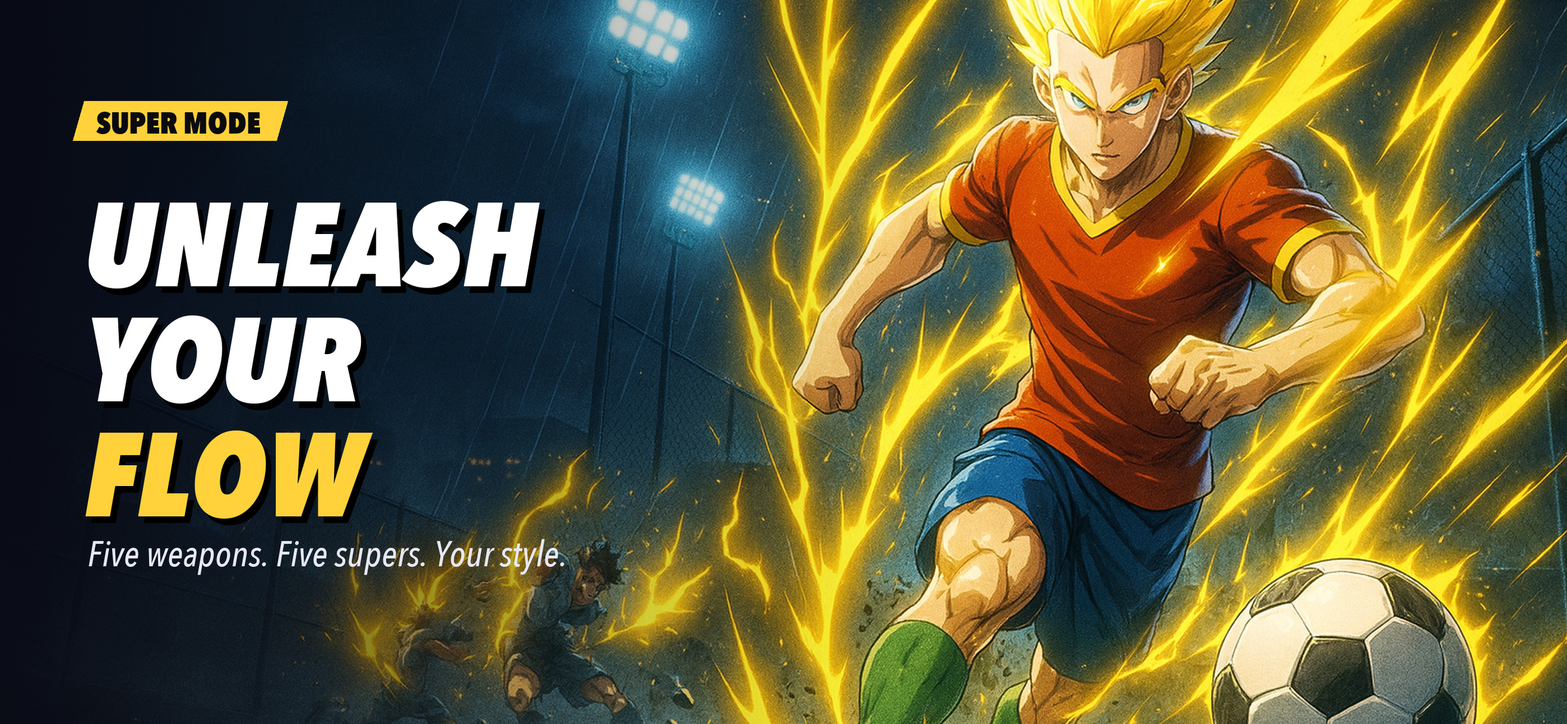
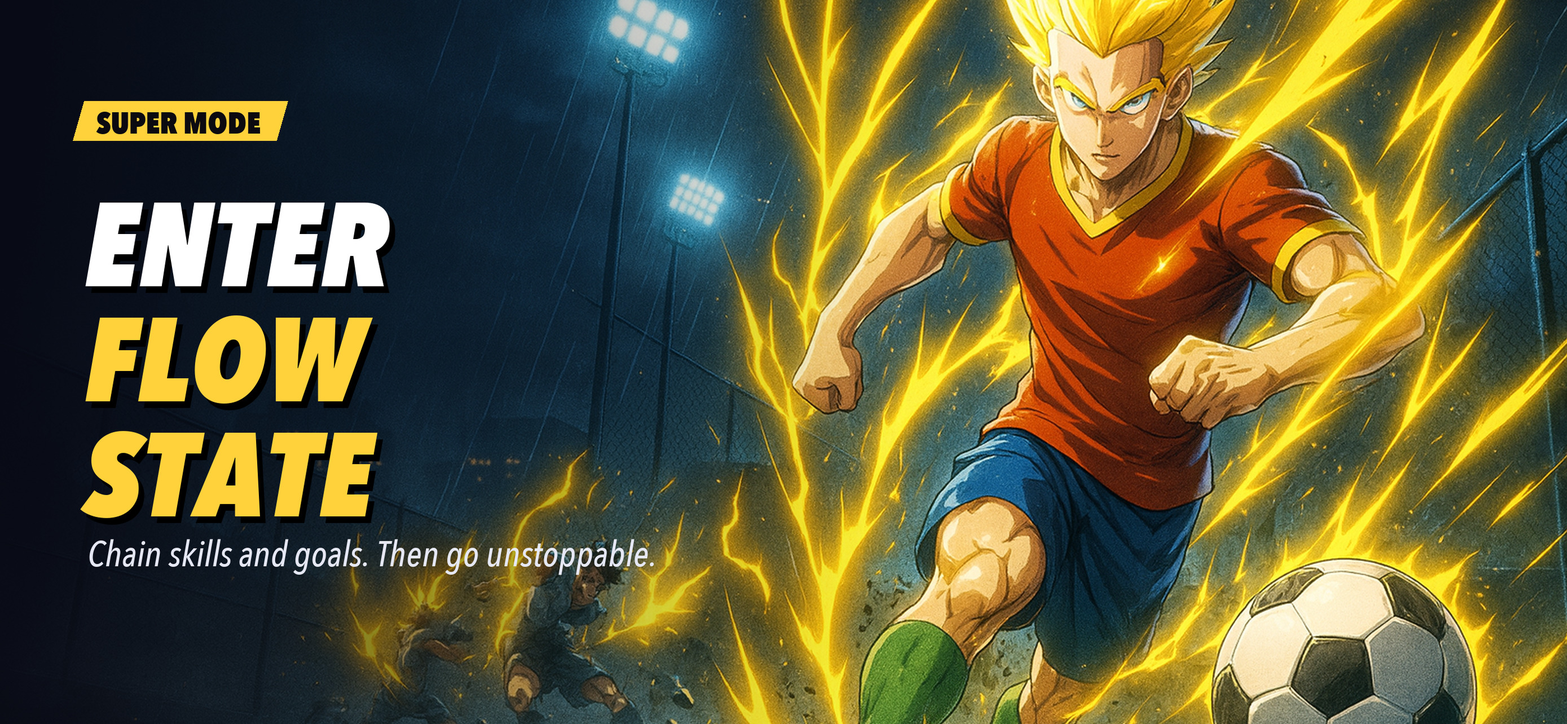
App Store Connect API helpers; 'Enter Flow State' screenshot

Changed region(s): [[0.031, 0.4361, 0.4334, 0.81], [0.031, 0.2804, 0.3715, 0.405]]

diff --git a/art/store/compose.py b/art/store/compose.py
@@ -127,8 +127,8 @@ im.save(os.path.join(OUT, '04_friends.png'))
 # 5 — flow
 im = cover(Image.open(os.path.join(HERE, 'bg_flow.png')).convert('RGB'), W, H, 0.6)
 im = left_shade(im, 0.58)
-title(im, ['UNLEASH', 'YOUR', 'FLOW'], y=300, size=210, colors=[(255, 255, 255), (255, 255, 255), GOLD],
-      sub='Five weapons. Five supers. Your style.', tag='SUPER MODE', tag_color=GOLD)
+title(im, ['ENTER', 'FLOW', 'STATE'], y=300, size=210, colors=[(255, 255, 255), GOLD, GOLD],
+      sub='Chain skills and goals. Then go unstoppable.', tag='SUPER MODE', tag_color=GOLD)
 im.save(os.path.join(OUT, '05_flow.png'))
 
 # 6 — legend / squad: real locker screen + three cards
